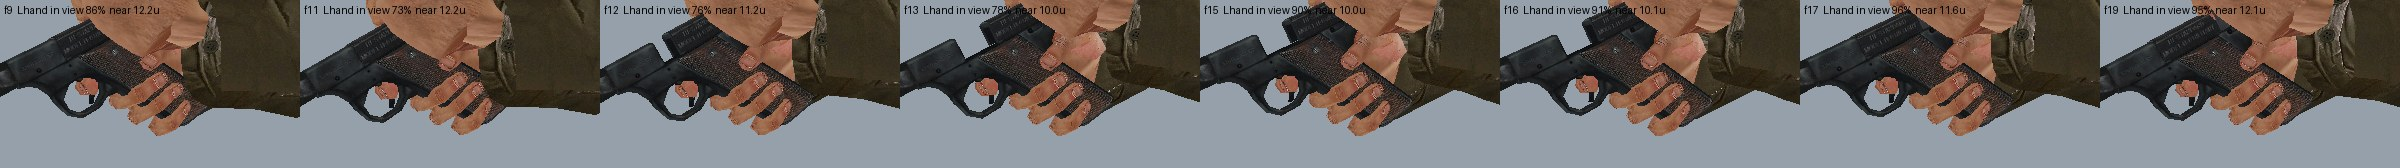
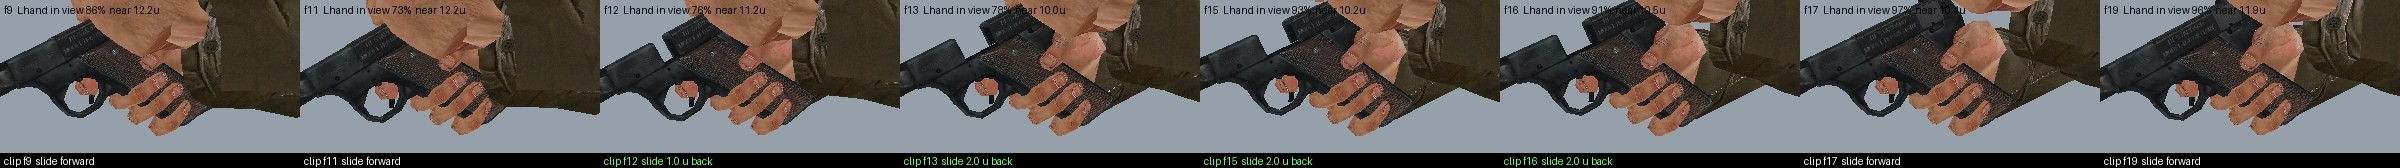
Hi-Standard rack: fingers open and the hand lifts as the slide starts forward (run ti2), slide travel marked on the eye and side strips, stances with the overhand rack (run ti3)

diff --git a/docs/proposals/ads_twohand_2026-10-11/tools/pistolgun.py b/docs/proposals/ads_twohand_2026-10-11/tools/pistolgun.py
@@ -78,15 +78,20 @@ def rack_pose(pull, fwd, n):
     return [(0, z), (max(1, pull[0] - 9), z), (pull[0] - 3, RACK_DOWN), (fwd[1] + 2, RACK_DOWN), (min(n - 3, fwd[1] + 10), z), (n, z)]
 
 
-def rack_hand(name, reach, pull, fwd, travel, fing):
+def rack_hand(name, reach, pull, fwd, travel, fing, fing_open=None):
     """left_path keys {frame: spec} from the hand arriving over the slide to it leaving; `fing` = the finger pose
     (a frame of the hip clip being baked, or a spec)"""
     T = rack_rel(name)
     ON = dict(relT=T, fing=fing)
     BACK = dict(relT=T, gun_add=(-travel * RACK_PULL, 0.0, 0.0), fing=fing)
-    return {reach: ON, pull[0]: ON, pull[1]: BACK, fwd[0]: BACK,
-            fwd[1]: dict(relT=T, gun_add=(-0.6, 0.0, 0.0), cam_add=(0.0, 0.3, 0.5), fing=fing),   # opens, the slide runs out from under it
-            fwd[1] + 3: dict(relT=T, cam_add=(-0.4, 1.4, 0.6), fing=fing)}
+    OPEN = fing_open if fing_open is not None else fing
+    back = (-travel * RACK_PULL, 0.0, 0.0)
+    # release: the fingers are already open and the hand is lifting when the slide starts forward, and it stays back
+    # there - the slide is seen running out from under it
+    return {reach: ON, pull[0]: ON, pull[1]: BACK, fwd[0] - 2: BACK,
+            fwd[0]: dict(relT=T, gun_add=back, cam_add=(0.0, 0.25, 0.55), fing=OPEN),
+            fwd[1]: dict(relT=T, gun_add=back, cam_add=(0.0, 0.5, 1.1), fing=OPEN),
+            fwd[1] + 3: dict(relT=T, cam_add=(-0.4, 1.6, 0.9), fing=OPEN)}
 
 
 def rack_slide(f, pull, fwd):

diff --git a/docs/proposals/ads_twohand_2026-10-11/tools/annotate.py b/docs/proposals/ads_twohand_2026-10-11/tools/annotate.py
@@ -1,0 +1,17 @@
+"""Mark the slide travel under each cell of a frame strip.
+    python annotate.py <strip.jpg> <cols> <cell w> <clip frames comma list> <pull0> <pull1> <fwd0> <fwd1> <travel u>"""
+import sys
+from PIL import Image, ImageDraw
+sys.path.insert(0, __import__('os').path.dirname(__import__('os').path.abspath(__file__)))
+import pistolgun
+p, cols, cw = sys.argv[1], int(sys.argv[2]), int(sys.argv[3])
+fr = [float(x) for x in sys.argv[4].split(',')]
+pull = (int(sys.argv[5]), int(sys.argv[6])); fwd = (int(sys.argv[7]), int(sys.argv[8])); trav = float(sys.argv[9])
+im = Image.open(p).convert('RGB'); d = ImageDraw.Draw(im)
+rows = (len(fr) + cols - 1) // cols; ch = im.height // rows
+for i, f in enumerate(fr):
+    x, y = (i % cols) * cw, (i // cols) * ch
+    b = pistolgun.rack_slide(f, pull, fwd) * trav
+    t = 'clip f%.0f  slide %.1f u back' % (f, b) if b > 0.01 else 'clip f%.0f  slide forward' % f
+    d.rectangle((x, y + ch - 15, x + cw, y + ch), fill=(0, 0, 0)); d.text((x + 4, y + ch - 13), t, fill=(120, 255, 120) if b > 0.01 else (255, 255, 255))
+im.save(p, quality=90); print('annotated', p)

diff --git a/docs/proposals/ads_twohand_2026-10-11/tools/cyclebake.py b/docs/proposals/ads_twohand_2026-10-11/tools/cyclebake.py
@@ -42,7 +42,7 @@ def bake(name, root):
     # sights (offline previews). Aimed, the support hand slides UP from its grip along the left side of the gun to the
     # slide, takes it there and pulls - it stays left of the sight line
     lp = {0: AIM, a0: AIM}
-    lp.update(pistolgun.rack_hand(name, g['reach'], g['pull'], g['fwd'], trav, g['rel']))       # the ONE rack motion (also the reload's end)
+    lp.update(pistolgun.rack_hand(name, g['reach'], g['pull'], g['fwd'], trav, g['rel'], fing_open=g.get('open', 6)))       # the ONE rack motion (also the reload's end)
     for f in range(o1, n + 1):
         lp[f] = AIM
     rc = H.auto_recipe(g['row'], gun=pg['sight'], charge=pg['aim'], hip=hipc, enter=0, exit=0, fixed_right=True, dip=ph['dip'],

diff --git a/docs/proposals/ads_twohand_2026-10-11/tools/pistolbake.py b/docs/proposals/ads_twohand_2026-10-11/tools/pistolbake.py
@@ -74,7 +74,7 @@ def spec(name, empty):
     if rack:                                 # ... and on up to the slide: the shared rack, then down onto the grip
         import json as _j
         trav = _j.load(open(os.path.join(HERE, 'slide_%s.json' % name)))['travel']
-        lp.update(pistolgun.rack_hand(name, rack['reach'], rack['pull'], rack['fwd'], trav, ('mix', hold, 0.3)))
+        lp.update(pistolgun.rack_hand(name, rack['reach'], rack['pull'], rack['fwd'], trav, ('mix', hold, 0.3), fing_open='pose'))
     for f in range(o1, n + 1):
         lp[f] = AIM
     # the magazine prop (server: on tag_weapon_left from frame 0 to the hand-over frame) sits in the keyed hand as the

diff --git a/docs/proposals/ads_twohand_2026-10-11/coverage.md b/docs/proposals/ads_twohand_2026-10-11/coverage.md
@@ -31,7 +31,7 @@ Clip state over the weapons that aim:
 | 49 | Silenced Colt .45 | `colt_silenced.tik` | colt45 | yes | two-handed staged | staged (re-baked, replaces the shipped clip) | no cycle row | self-loading / none | one-handed at the hip (hand hangs); two-handed in ADS by design | no | no | no | - | not recorded | - | - | - | - | - | **PARTIAL** |
 | 50 | Walther P38 | `p38.tik` | p38 | yes | two-handed staged | staged (re-baked, replaces the shipped clip) | no cycle row | self-loading / none | one-handed at the hip (hand hangs); two-handed in ADS by design | yes | yes | yes | te1 (loaded) te2 (empty) | support hand: magazine out / in below the screen edge; EMPTY: slide locked back, support thumb sweeps the slide stop as the hand closes on the grip, slide runs forward - shown; loaded: no slide action | 2.3 deg / covered beyond the aim: max 0.7 %, 0.0 % of frames (te1) ; EMPTY: 2.3 deg / covered beyond the aim: max 4.0 %, 3.9 % of frames (te2) | stand crouch prone lean (th4, max 0.0 deg) | stand crouch prone lean (tg4, max 2.3 deg) | - | th4: sheet + GIF checked | **DONE but braced** |
 | 51 | Silenced Walther P38 | `p38silenced.tik` | colt45 | yes | two-handed staged | staged (re-baked, replaces the shipped clip) | no cycle row | self-loading / none | one-handed at the hip (hand hangs); two-handed in ADS by design | no | no | no | - | not recorded | - | - | - | - | - | **PARTIAL** |
-| 52 | Hi-Standard Silenced | `silencedpistol.tik` | histandard | yes | two-handed staged | staged (re-baked, replaces the shipped clip) | no cycle row | HAND-CYCLED per shot (fire delay 1.0 s): aimed clip staged | one-handed at the hip (hand hangs); two-handed in ADS by design | yes | yes | no | ti1: overhand rack, gun pitched down; NOT done until the user accepts the grasp reading | HAND-CYCLED, no lock-back: the hip technique - the gun comes down under the centre box, the left hand goes OVER the slide (retail hip relation), pulls and releases, gun back on the sights - after every aimed shot and at the end of every aimed reload (one shared motion) | 28.6 deg / covered beyond the aim: max 1.9 %, 0.0 % of frames (ti1) ; EMPTY: 2.3 deg / old measure 0.0 % of frames (te5) | stand crouch prone lean (th4, max 0.0 deg) | stand crouch prone lean (tg4, max 3.0 deg) | - | th4: sheet + GIF checked | **PARTIAL** |
+| 52 | Hi-Standard Silenced | `silencedpistol.tik` | histandard | yes | two-handed staged | staged (re-baked, replaces the shipped clip) | no cycle row | HAND-CYCLED per shot (fire delay 1.0 s): aimed clip staged | one-handed at the hip (hand hangs); two-handed in ADS by design | yes | yes | yes | ti2 (shots, overhand cock, reload + rack) ti3 (stances) | HAND-CYCLED, no lock-back: the hip technique - the gun comes down under the centre box, the left hand goes OVER the slide (retail hip relation), pulls and releases, gun back on the sights - after every aimed shot and at the end of every aimed reload (one shared motion) | 28.5 deg / covered beyond the aim: max 1.3 %, 0.0 % of frames (ti2) ; EMPTY: 2.3 deg / old measure 0.0 % of frames (te5) | stand crouch prone lean (th4, max 0.0 deg) | stand!FAIL crouch!FAIL prone lean!FAIL (ti3, max 28.6 deg) | - | th4: sheet + GIF checked | **PARTIAL** |
 | 53 | Webley Revolver | `webley_revolver.tik` | webley | yes | two-handed staged | staged (re-baked, replaces the shipped clip)/staged/staged (re-baked, replaces the shipped clip) (3 parts) | no cycle row | self-loading / none | one-handed at the hip (hand hangs); two-handed in ADS by design | yes | no | yes | th1: worked low, centre clear; gun poses hand-keyed, no physics reaction yet | support hand, one round per loop into the open cylinder; top-break opened by both hands - shown, but the gun leaves the aim | 35.0 deg / old measure 55.8 % of frames (tc2) ; EMPTY: 30.0 deg / covered beyond the aim: max 8.2 %, 1.0 % of frames (th1) | stand crouch prone lean (ts1, max 0.0 deg) | stand crouch prone (ts1; gun lowered by design, ends 0.0 deg) | - | - / OPEN: ts1: aim + aimed reload at the chosen pace in stand / crouch / prone / lean (ends 0.0 deg), switch + sprint interruptions clean; a fire press does not cut the loop (existing state rule); open: cuff, Mk VI finger fit, braced | **PARTIAL** |
 | 54 | Nagant Revolver | `nagant_revolver.tik` | nagantrev | yes | two-handed staged | staged (3 parts) | no cycle row | self-loading / none | one-handed at the hip (hand hangs); two-handed in ADS by design | yes | no | yes | th2: worked low; the loading hand crosses the box's upper right for a few frames at the hand-over | firing-side hand feeds through the loading gate, support hand holds the gun - shown, but the gun leaves the aim | 23.7 deg / old measure 29.6 % of frames (tc2) ; EMPTY: 23.5 deg / covered beyond the aim: max 4.2 %, 4.2 % of frames (th2) | stand crouch prone lean (ts1, max 0.0 deg) | stand crouch prone lean!FAIL (th5,ts1; gun lowered by design, ends 99.0 deg) | - | - / OPEN: ts1 / tu1: aim + aimed reload (0.9 s per round) in stand / crouch / prone / lean, switch + sprint interruptions clean; case pops from the gate per round; open: cradling hand still large, braced | **PARTIAL** |
 | 55 | Beretta | `it_w_beretta.tik` | beretta | yes | two-handed staged | staged (re-baked, replaces the shipped clip) | no cycle row | self-loading / none | one-handed at the hip (hand hangs); two-handed in ADS by design | yes | yes | yes | te6 (loaded) te7 (empty) | support hand: magazine out / in below the screen edge; EMPTY: slide locked back, support thumb sweeps the slide stop as the hand closes on the grip, slide runs forward - shown; loaded: no slide action | 2.2 deg / covered beyond the aim: max 2.1 %, 9.4 % of frames (te6) ; EMPTY: 2.2 deg / covered beyond the aim: max 1.6 %, 0.0 % of frames (te7) | stand crouch prone lean (th4, max 0.0 deg) | stand crouch prone lean (tg5, max 2.3 deg) | - | th4: sheet + GIF checked; rack skipped by the support hand | **DONE but braced** |
